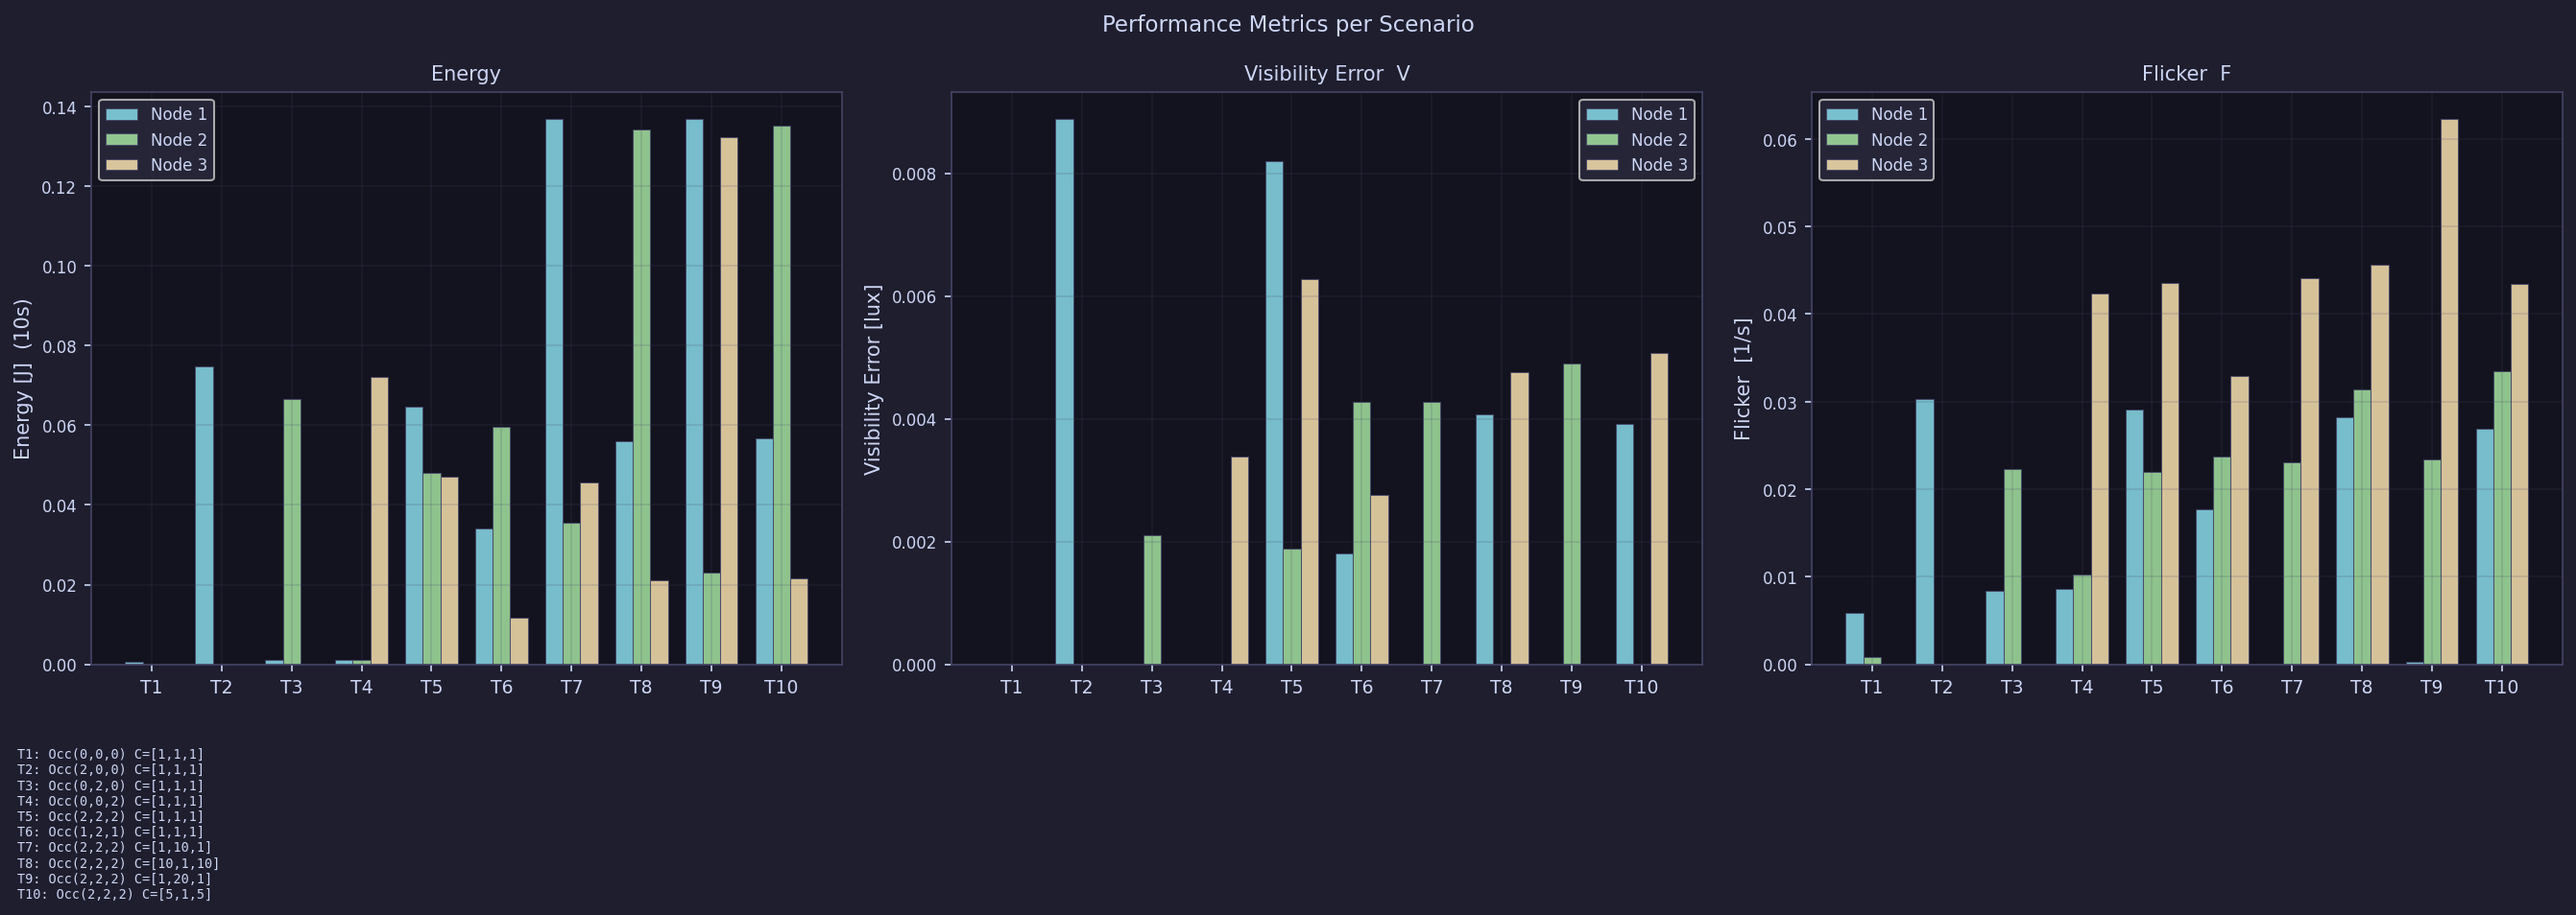
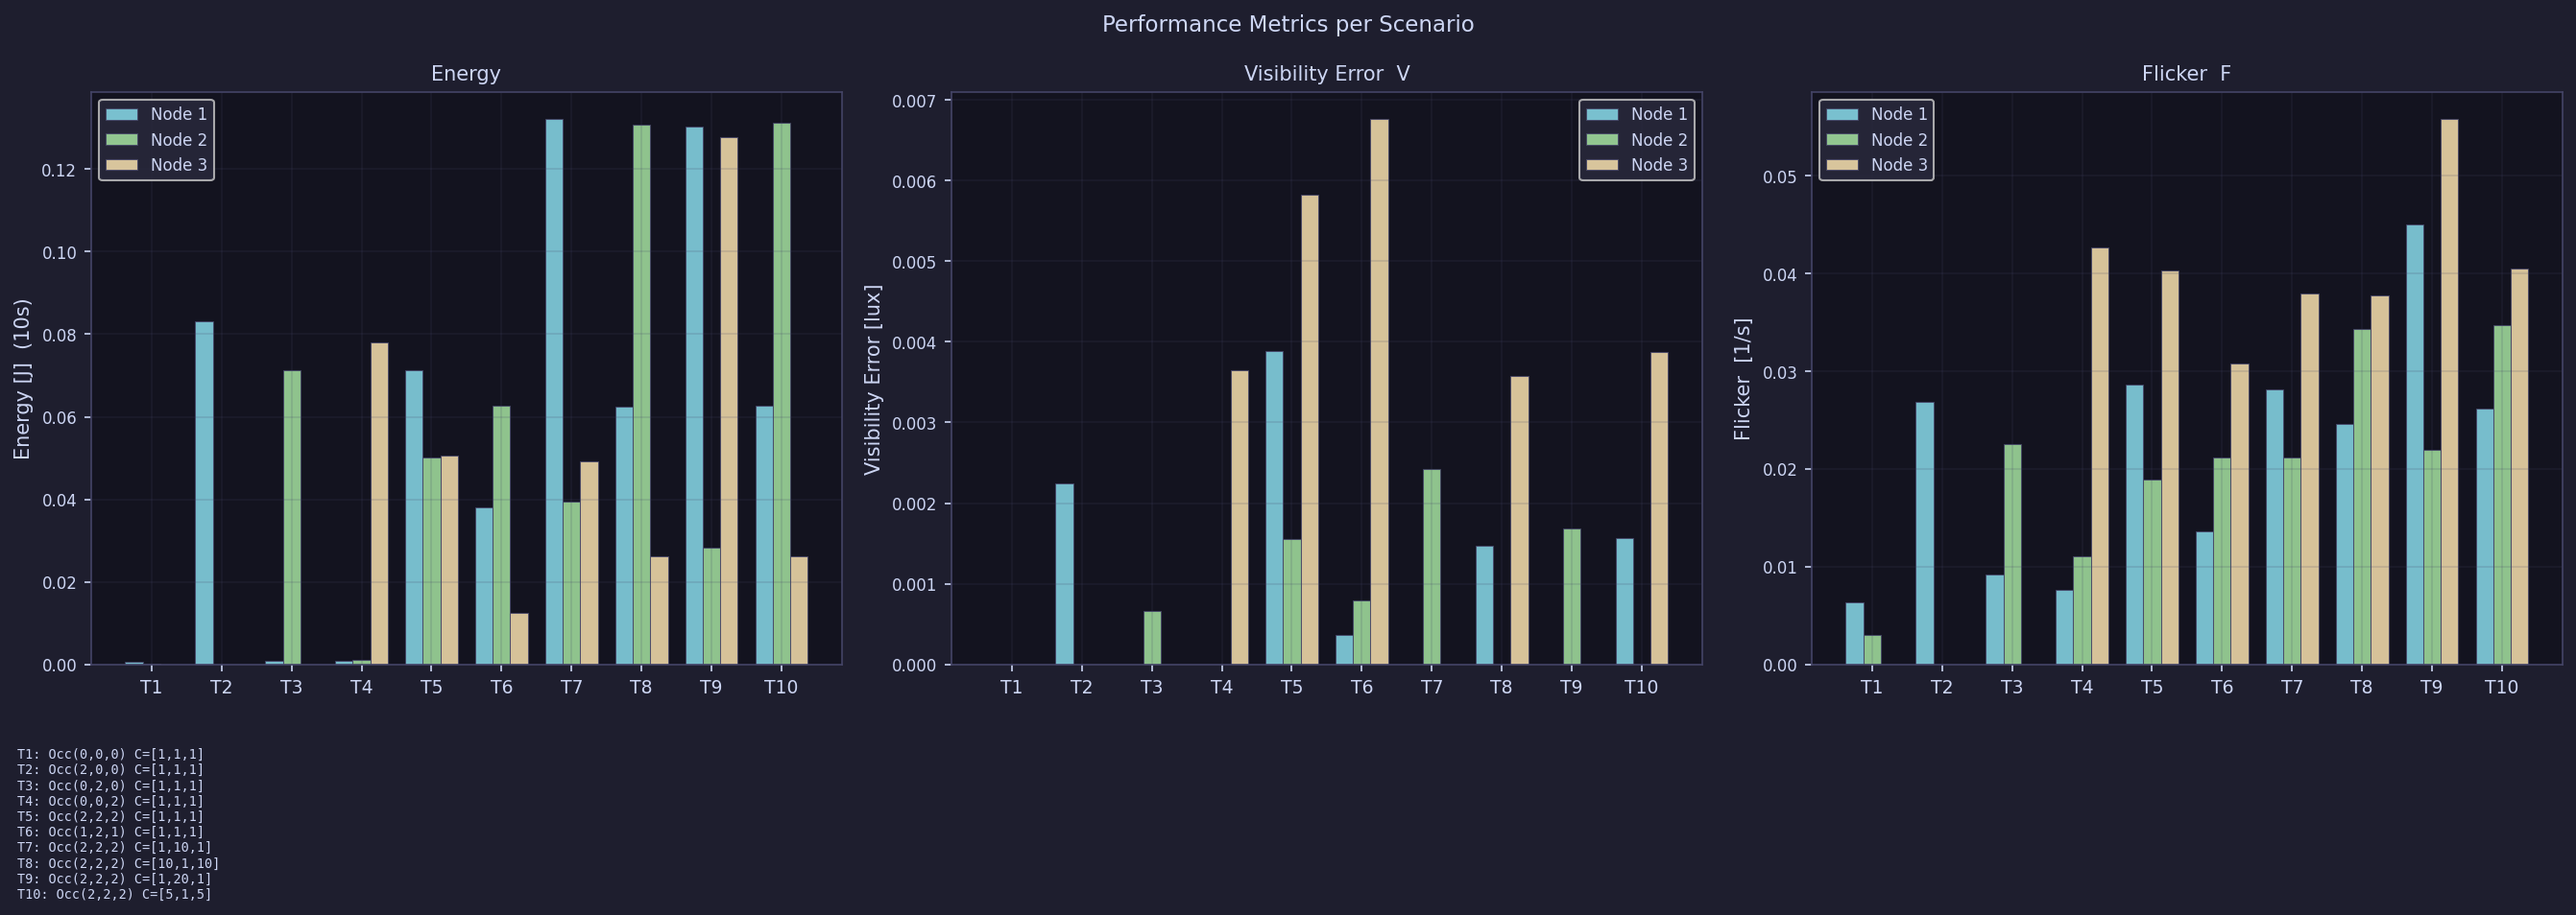
can_comms.h   - Removed SUB_ADMM_U_OPT and ADMM_WIRE_MAGIC   - can_send_admm: removed bool converged parameter, DLC 8→7, no data[7] magic byte
admm.h
  - Removed ADMM_EPS, ADMM_LUX_TOL, ADMM_MAXITER_HARD
  - Removed admm_set_peer_converged declaration

  admm.cpp
  - ADMM_MAXITER 100→50
  - Removed admm_peer_converged[] and admm_local_converged state
  - Warm-start: own=u_ff, non-own=0.5, seed windows at 0.5 with own-own patched to u_ff
  - Removed avg_hits_local_target() and admm_set_peer_converged()
  - DUAL_UPDATE: replaced three-tier stopping with single admm_iter >= ADMM_MAXITER check; residuals still computed
  for g K/g J queries

  main.ino
  - MSG_ADMM handler: simplified to dlc < 7 check, removed magic byte validation, peer_wants_stop, and
  admm_set_peer_converged call

diff --git a/main/admm.cpp b/main/admm.cpp
@@ -20,7 +20,7 @@ extern float sys_background;
 extern PID pid;
 
 // ── State ─────────────────────────────────────────────────────────────────────
-int ADMM_MAXITER = 100;
+int ADMM_MAXITER = 50;
 float admm_u[ADMM_N + 1] = {0};
 float admm_u_avg[ADMM_N + 1] = {0};
 float admm_lambda[ADMM_N + 1] = {0};
@@ -42,8 +42,6 @@ static int admm_recv_next_count[ADMM_N + 1] = {0};
 bool admm_running = false;
 
 static float admm_u_avg_prev[ADMM_N + 1] = {0};
-static bool admm_peer_converged[ADMM_N + 1] = {false};
-static bool admm_local_converged = false;
 
 static void admm_seed_window(float buf[][ADMM_N + 1],
                              bool seen[][ADMM_N + 1],
@@ -106,12 +104,8 @@ void admm_init()
 {
     admm_primal_res = 0;
     admm_dual_res = 0;
-    admm_local_converged = false;
     for (int j = 1; j <= ADMM_N; j++)
-    {
         admm_u_avg_prev[j] = 0.0f;
-        admm_peer_converged[j] = false;
-    }
 
     // k[j] = k_ij — coupling gain from node j's LED to THIS desk (slide 7).
     // Filled from the gain matrix measured during distributed calibration.
@@ -165,7 +159,7 @@ void admm_init()
     // the occupied node can correct within a few iterations.
     float u_ff = feedforward(L_raw);
     for (int j = 1; j <= ADMM_N; j++)
-        admm_lambda[j] = 0.0f; // Clear integrators to prevent windup carry-over
+        admm_lambda[j] = 0.0f;
     admm_u[LUMINAIRE]     = u_ff;
     admm_u_avg[LUMINAIRE] = u_ff;
     for (int j = 1; j <= ADMM_N; j++)
@@ -179,7 +173,7 @@ void admm_init()
 
     // Seed receive windows: own row uses u_ff; peer rows use 0.5 so a timeout
     // falls back to a neutral estimate rather than zero.
-    admm_seed_window(admm_recv, admm_recv_seen, admm_recv_count, 0.5f);
+    admm_seed_window(admm_recv,      admm_recv_seen,      admm_recv_count,      0.5f);
     admm_seed_window(admm_recv_next, admm_recv_next_seen, admm_recv_next_count, 0.5f);
     admm_recv[LUMINAIRE][LUMINAIRE]      = u_ff;
     admm_recv_next[LUMINAIRE][LUMINAIRE] = u_ff;
@@ -220,13 +214,6 @@ static float predicted_lux(const float u[])
     return lux;
 }
 
-static bool avg_hits_local_target(const float u[])
-{
-    if (admm_L <= 0.0f)
-        return true;
-    return predicted_lux(u) + ADMM_LUX_TOL >= admm_L;
-}
-
 // ─────────────────────────────────────────────────────────────────────────────
 // QP objective — slide 10 simplified form
 //
@@ -255,12 +242,8 @@ void admm_start()
     admm_running = true;
     admm_primal_res = 0;
     admm_dual_res = 0;
-    admm_local_converged = false;
     for (int j = 1; j <= ADMM_N; j++)
-    {
         admm_u_avg_prev[j] = 0.0f;
-        admm_peer_converged[j] = false;
-    }
     admm_stage = AdmmStage::PRIMAL_UPDATE;
 }
 
@@ -294,12 +277,6 @@ void admm_receive(uint8_t src, uint8_t comp, uint8_t iter, float val)
 
     Serial.printf("[ADMM RX DROP] src=%d iter=%d comp=%d val=%.4f (expect %d or %d)\n",
                   src, iter, comp, val, admm_iter, admm_iter + 1);
-}
-
-void admm_set_peer_converged(uint8_t src, bool converged)
-{
-    if (src >= 1 && src <= ADMM_N)
-        admm_peer_converged[src] = converged;
 }
 
 void admm_request(bool is_responder)
@@ -423,7 +400,7 @@ bool admm_tick()
 
         // Serial.printf("[ADMM TX] iter=%d  x_i=[%.4f, %.4f, %.4f]\n",
         //               admm_iter, admm_u[1], admm_u[2], admm_u[3]);
-        can_send_admm(BROADCAST, (uint8_t)admm_iter, admm_u, admm_local_converged);
+        can_send_admm(BROADCAST, (uint8_t)admm_iter, admm_u);
 
         for (int j = 1; j <= ADMM_N; j++)
         {
@@ -514,33 +491,13 @@ bool admm_tick()
         admm_primal_res = sqrtf(res_sq_primal);
         admm_dual_res = ADMM_RHO * sqrtf(res_sq_dual);
 
-        admm_local_converged = (admm_primal_res < ADMM_EPS) && (admm_dual_res < ADMM_EPS);
-
-        bool all_converged = admm_local_converged;
-        for (int p = 0; p < n_other_nodes; p++)
-            all_converged &= admm_peer_converged[other_nodes[p]];
-
         float avg_lux = predicted_lux(admm_u_avg);
-        bool avg_feasible = avg_hits_local_target(admm_u_avg);
 
-        // Three-tier stopping:
-        //   Early exit — Consensus reached (all nodes agree on convergence) AND target met.
-        //   Soft stop   — ADMM_MAXITER reached AND solution is feasible.
-        //   Hard stop   — ADMM_MAXITER_HARD reached unconditionally.
-        bool early_exit = all_converged && avg_feasible;
-        bool soft_stop = avg_feasible && admm_iter >= ADMM_MAXITER;
-        bool hard_stop = admm_iter >= ADMM_MAXITER_HARD;
-
-        if (early_exit || soft_stop || hard_stop)
+        // Fixed-budget stop: residuals are recorded for plotting only.
+        if (admm_iter >= ADMM_MAXITER)
         {
-            const char* reason = early_exit ? "early-exit" : (soft_stop ? "soft-cap" : "hard-cap");
-            if (early_exit) {
-                Serial.printf("[ADMM] done k=%d  u_ii=%.4f  avg_lux=%.2f  %s (primal=%.5f dual=%.5f)\n",
-                              admm_iter, admm_u_avg[LUMINAIRE], avg_lux, reason, admm_primal_res, admm_dual_res);
-            } else {
-                Serial.printf("[ADMM] done k=%d  u_ii=%.4f  avg_lux=%.2f  %s\n",
-                              admm_iter, admm_u_avg[LUMINAIRE], avg_lux, reason);
-            }
+            Serial.printf("[ADMM] done k=%d  u_ii=%.4f  avg_lux=%.2f  fixed-cap (primal=%.5f dual=%.5f)\n",
+                          admm_iter, admm_u_avg[LUMINAIRE], avg_lux, admm_primal_res, admm_dual_res);
             admm_running = false;
             admm_stage = AdmmStage::DONE;
             return true;

diff --git a/main/can_comms.h b/main/can_comms.h
@@ -38,8 +38,6 @@
 #define SUB_ACK         0x01
 #define SUB_REBOOT      0x02
 #define SUB_ADMM_TRIGGER 0x05
-// MSG_ADMM
-#define SUB_ADMM_U_OPT  0x01
 
 // ── Globals from main.ino ─────────────────────────────────────────────────────
 extern MCP2515  can0;
@@ -53,11 +51,10 @@ inline void can_queue_tx(const struct can_frame &msg) {
 
 // ADMM transport uses one packed CAN frame per iteration.
 // Each component is quantized as signed Q11 fixed-point with scale 2048,
-// which keeps the full vector inside the 8-byte CAN payload.
+// which keeps the full vector inside a 7-byte CAN payload.
 static constexpr float ADMM_WIRE_SCALE = 2048.0f;
 static constexpr float ADMM_WIRE_MIN = -16.0f;
 static constexpr float ADMM_WIRE_MAX = 15.9995f;
-static constexpr uint8_t ADMM_WIRE_MAGIC = 0x25; // low 7 bits
 
 inline int16_t admm_wire_encode(float value) {
     if (value < ADMM_WIRE_MIN)
@@ -102,10 +99,10 @@ inline void can_send_sub(uint8_t dest, uint8_t msg_type, uint8_t sub) {
     can_queue_tx(msg);
 }
 
-inline void can_send_admm(uint8_t dest, uint8_t iter, const float values[4], bool converged) {
+inline void can_send_admm(uint8_t dest, uint8_t iter, const float values[4]) {
     struct can_frame msg;
     msg.can_id  = MAKE_CAN_ID(MSG_ADMM, dest, LUMINAIRE);
-    msg.can_dlc = 8;
+    msg.can_dlc = 7;
     msg.data[0] = iter;
 
     int16_t q1 = admm_wire_encode(values[1]);
@@ -114,6 +111,5 @@ inline void can_send_admm(uint8_t dest, uint8_t iter, const float values[4], boo
     memcpy(msg.data + 1, &q1, sizeof(q1));
     memcpy(msg.data + 3, &q2, sizeof(q2));
     memcpy(msg.data + 5, &q3, sizeof(q3));
-    msg.data[7] = (converged ? 0x80 : 0x00) | ADMM_WIRE_MAGIC;
     can_queue_tx(msg);
 }

diff --git a/main/admm.h b/main/admm.h
@@ -35,10 +35,7 @@
 
 // ── Tuning constants ──────────────────────────────────────────────────────────
 static constexpr float ADMM_RHO = 5.0f;            // ρ  — penalty parameter
-static constexpr float ADMM_EPS = 1e-4f;           // convergence threshold
-static constexpr float ADMM_LUX_TOL = 0.10f;       // acceptable averaged illuminance slack in lux
-extern int ADMM_MAXITER;                           // soft iteration budget once the averaged solution is usable
-static constexpr int ADMM_MAXITER_HARD = 150;      // absolute safety cap if consensus remains under target
+extern int ADMM_MAXITER;                           // fixed ADMM iteration budget
 static constexpr unsigned long ADMM_TIMEOUT = 150; // ms to wait for CAN peers (N msgs each)
 
 // ── ADMM state (1-indexed, matching LUMINAIRE convention) ─────────────────────
@@ -78,4 +75,3 @@ bool admm_tick();
 float admm_result();
 void admm_request(bool is_responder);
 void admm_receive(uint8_t src, uint8_t comp, uint8_t iter, float val);
-void admm_set_peer_converged(uint8_t src, bool converged);
